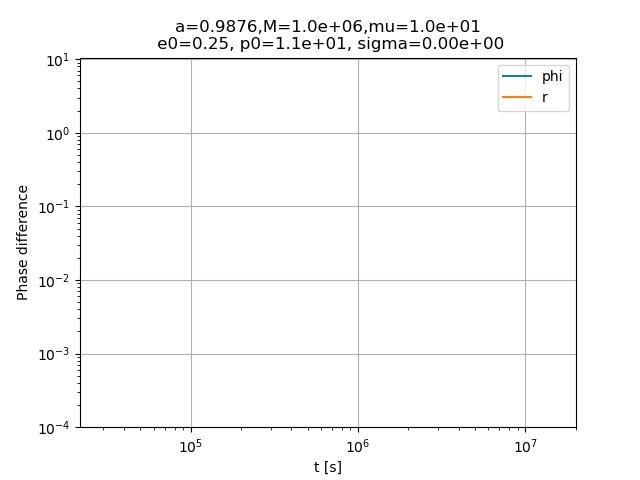
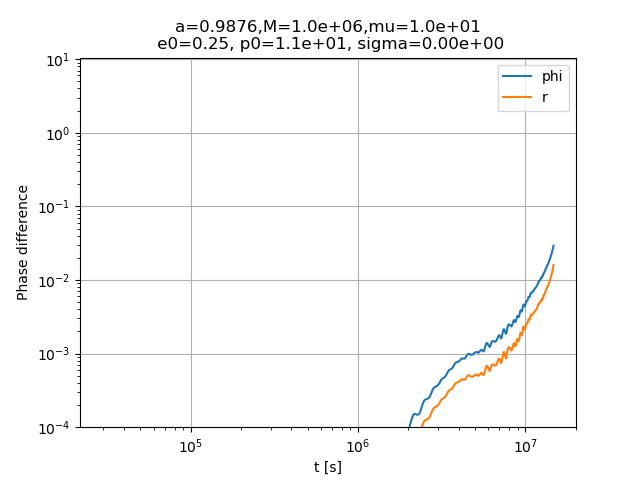
fix in equatorial

Changed region(s): [[0.7188, 0.5, 0.875, 0.7812], [0.625, 0.75, 0.75, 0.875]]

diff --git a/FastEMRIWaveforms/src/ode_base_example.cc b/FastEMRIWaveforms/src/ode_base_example.cc
@@ -228,7 +228,7 @@ void KerrEccentricEquatorial::deriv_func(double* pdot, double* edot, double* xdo
         return;
     }
     // evaluate ODEs
-    // cout << "beginning" << " a =" << a  << "\t" << "p=" <<  p << "\t" << "e=" << e <<endl;
+    // cout << "beginning" << " a =" << a  << "\t" << "p=" <<  p << "\t" << "e=" << e << "\t" << "x=" << x << endl;
     // auto start = std::chrono::high_resolution_clock::now();
     // the frequency variables are pointers!
     KerrGeoEquatorialCoordinateFrequencies(Omega_phi, Omega_theta, Omega_r, a, p, e, x);// shift to avoid problem in fundamental frequencies
@@ -241,7 +241,7 @@ void KerrEccentricEquatorial::deriv_func(double* pdot, double* edot, double* xdo
     // reference frequency
     
     Omega_phi_sep_circ = 1.0/ (a*copysign(1.0,x) + pow(p_sep/( 1.0 + e ), 1.5) );
-    r = pow(*Omega_phi/ Omega_phi_sep_circ, 2.0/3.0 ) * (1.0 + e);
+    r = pow(abs(*Omega_phi)/ Omega_phi_sep_circ, 2.0/3.0 ) * (1.0 + e);
     
     if (isnan(r)){
         cout << " a =" << a  << "\t" << "p=" <<  p << "\t" << "e=" << e <<  "\t" << "x=" << x << "\t" << r << " plso =" <<  p_sep << endl;
@@ -269,10 +269,12 @@ void KerrEccentricEquatorial::deriv_func(double* pdot, double* edot, double* xdo
     double pdot_out, edot_out, xdot_out;
     // sign of function
     double factor = additional_args[0]*additional_args[0]/4;
+    
     Edot = factor*Edot_SC(a*copysign(1.0,x), e, r, p)+Edot_GR(a*copysign(1.0,x),e,r,p);
     Ldot = factor*Ldot_SC(a*copysign(1.0,x), e, r, p)*copysign(1.0,x)+Ldot_GR(a*copysign(1.0,x),e,r,p)*copysign(1.0,x);
     Qdot = 0.0;
-
+    // cout << 'Edot \t' << Edot << endl;
+    // cout << 'Ldot \t' << Ldot << endl;
     Jac(a, p, e, x, E_here, L_here, Q_here, -Edot, -Ldot, Qdot, pdot_out, edot_out, xdot_out);
     // pdot_edot_from_fluxes(pdot_out, edot_out, -Edot_GR(a,e,r,p), -Ldot_GR(a,e,r,p), a, e, p);
 
@@ -293,7 +295,7 @@ void KerrEccentricEquatorial::deriv_func(double* pdot, double* edot, double* xdo
     else{
         
         *edot = 0.0;
-        *pdot = epsilon * (pdot_out + factor * pdot_here);
+        *pdot = epsilon * pdot_out;
         // cout << "end" << " a =" << a  << "\t" << "p=" <<  p << "\t" << "e=" << e <<  "\t" << "x=" << x << "\t" << r << " plso =" <<  p_sep << endl;
     }
 

diff --git a/check_Susanna/traj_comparison.py b/check_Susanna/traj_comparison.py
@@ -30,22 +30,23 @@ print(os.getpid())
 # initialize trajectory class
 traj = EMRIInspiral(func="KerrEccentricEquatorial")
 
-filename = "evolution_GR_a09876_rp6_ra11"
+filename = "evolution_d100_a09_rp6_ra11"
 # Susanna trajectory
-charge = 0.0
+charge = 100.0
 t_S, p_S, e_S, F1, F2, Om1, Om2, PhiphiS, PhirS = np.loadtxt(filename + ".dat").T
 
 
-a=0.9876
+a=0.9
 M=1e6
 mu=1e1
 p0, e0 = p_S[0], e_S[0]
-
-# print([traj.get_rhs_ode(M, mu, a, pp, ee, 1.0, charge)[0] for pp,ee in zip(p_S,e_S)]/F1/(MTSUN_SI * M))
+x0=1.0
+print(M, mu, a, p0, e0, x0)
+# print([traj.get_rhs_ode(M, mu, a, pp, ee, x0, charge)[3] for pp,ee in zip(p_S,e_S)]/Om1)
 # print([traj.get_rhs_ode(M, mu, a, pp, ee, 1.0, charge)[1] for pp,ee in zip(p_S,e_S)]/F2/(MTSUN_SI * M))
 
 # run trajectory
-t, p, e, x, Phi_phi, Phi_theta, Phi_r = traj(M, mu, a, p0, e0, -1.0, charge, T=4.0)
+t, p, e, x, Phi_phi, Phi_theta, Phi_r = traj(M, mu, a, p0, e0, x0, charge, T=4.0)
 
 print('run',p0,e0,a)
 
@@ -62,7 +63,7 @@ plt.figure()
 plt.title(f"a={a},M={M:.1e},mu={mu:.1e}\n e0={e0:.2}, p0={p0:.2}, sigma={charge:.2e}")
 plt.loglog(t_S, np.abs(interp(t_S) - PhiphiS),'-',label=f"phi")
 plt.loglog(t_S, np.abs(interp2(t_S) - PhirS),'-',label=f"r")
-plt.ylim(1e-4,10.5)
+plt.ylim(1e-4,30.5)
 plt.xlabel('t [s]')
 plt.ylabel('Phase difference')
 plt.legend()
@@ -89,4 +90,5 @@ plt.semilogy(p, e,'--',label=f"FEW")
 plt.xlabel('p')
 plt.ylabel('e')
 plt.legend()
+plt.tight_layout()
 plt.savefig('p_e_plane_'+filename)

diff --git a/dephasings/deph.py b/dephasings/deph.py
@@ -22,7 +22,7 @@ M = 1e6
 mu = 1e1
 a = 0.9
 p0 = 7.2
-e0 = 0.0
+e0 = 0.3
 iota0 = 0.0
 Y0 = np.cos(iota0)
 Phi_phi0 = 0.0
@@ -32,7 +32,7 @@ Phi_r0 = 0.0
 dt = 10.0
 T = 4.0
 
-traj = EMRIInspiral(func="KerrCircFlux")
+traj = EMRIInspiral(func="KerrEccentricEquatorial")
 
 def plot_config(ECC, IOTA, SPIN, var, charz, filename, ang1, ang2):
     fig = plt.figure()
@@ -76,7 +76,7 @@ def plot_config(ECC, IOTA, SPIN, var, charz, filename, ang1, ang2):
     plt.savefig(filename)
 
 #######################################################################
-num = 30
+num = 4
 p_vec = np.linspace(8.0,18.0, num=num)
 spin = np.linspace(0.01,0.99, num=num)
 n = len(p_vec)
@@ -114,9 +114,9 @@ for p0 in p_vec:
         
         # run trajectory
         args=np.array([charge])
-        t, p, e, Y, Phi_phi, Phi_r, Phi_theta = traj(M, mu, a, p0, e0, Y0,  Phi_phi0, Phi_theta0, Phi_r0, *args,  T=T, dt=dt)
+        t, p, e, Y, Phi_phi, Phi_r, Phi_theta = traj(M, mu, a, p0, e0, Y0, *args, Phi_phi0, Phi_theta0, Phi_r0,   T=T, dt=dt)
         args=np.array([0.0])
-        t2, p2, e2, Y2, Phi_phi2, Phi_r2, Phi_theta2 = traj(M, mu, a, p0, e0, Y0, Phi_phi0, Phi_theta0, Phi_r0, *args, T=T, dt=dt)#, upsample=True, new_t=t)
+        t2, p2, e2, Y2, Phi_phi2, Phi_r2, Phi_theta2 = traj(M, mu, a, p0, e0, Y0, *args, Phi_phi0, Phi_theta0, Phi_r0, T=T, dt=dt)#, upsample=True, new_t=t)
         
         
         tfinal = np.min([t[-1], t2[-1]])

diff --git a/FastEMRIWaveforms/few/trajectory/inspiral.py b/FastEMRIWaveforms/few/trajectory/inspiral.py
@@ -239,8 +239,8 @@ class EMRIInspiral(TrajectoryBase):
             )
             a = fill_value
 
-        if self.equatorial:
-            x0 = 1.0
+        # if self.equatorial:
+        #     x0 = 1.0
 
         if self.circular:
             e0 = 0.0
@@ -310,8 +310,8 @@ class EMRIInspiral(TrajectoryBase):
             )
             a = fill_value
 
-        if self.equatorial:
-            x = 1.0
+        # if self.equatorial:
+        #     x = 1.0
 
         if self.circular:
             e = 0.0

diff --git a/FastEMRIWaveforms/src/Utility.cc b/FastEMRIWaveforms/src/Utility.cc
@@ -324,7 +324,7 @@ void KerrGeoEquatorialMinoFrequencies(double* CapitalGamma_, double* CapitalUpsi
     long double Mlong=1.0;
     long double along=a;
     long double rplong = Mlong + sqrt((Mlong*Mlong) - (along*along));
-    long double diff_r3_rp = r3 - Mlong; // r3-rp
+    long double diff_r3_rp = r3 - Mlong;
     diff_r3_rp = rplong*diff_r3_rp - sqrt((Mlong*Mlong) - (along*along))*rplong;
 
     double rp = M + sqrt((M*M) - (a*a));
